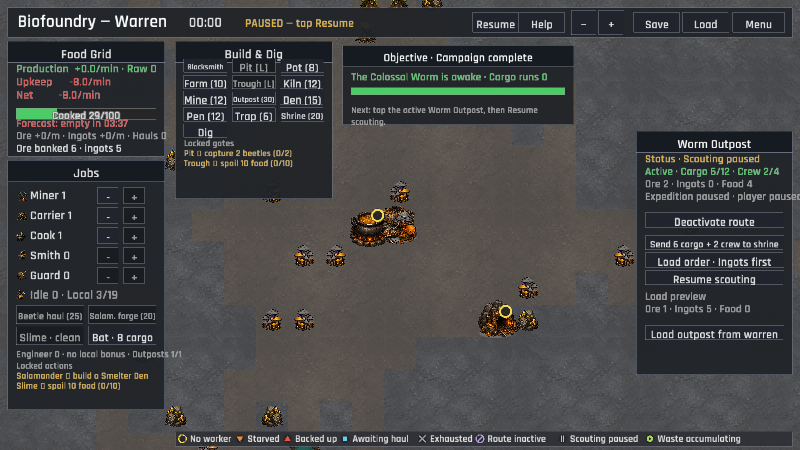
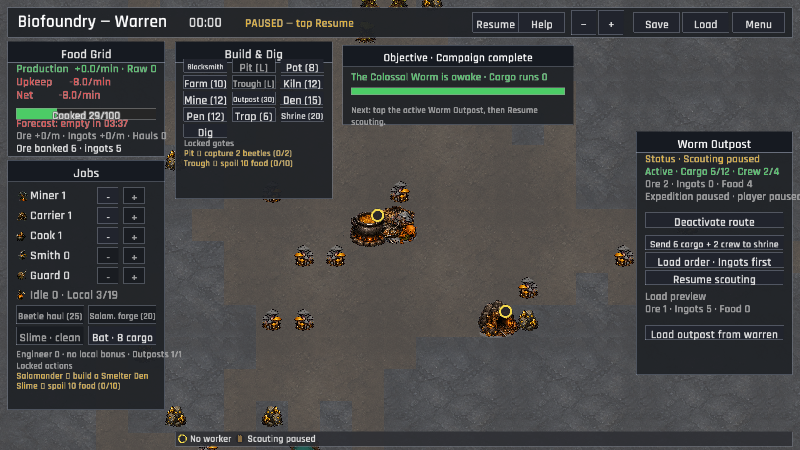
The warren reads every outpost warning sign (Outpost blocker legibility, post-campaign)
Staffed awakened Outposts now surface scout-food and remote-hold blockers on the map, inspection card, and compact status legend. Keep the recovery copy readable when no payload is ready, and refresh the focused Endless captures and UI coverage.

Changed region(s): [[0.3125, 0.9644, 0.9375, 0.9956]]

diff --git a/src/ui/legibility.rs b/src/ui/legibility.rs
@@ -52,6 +52,10 @@ pub enum BuildingStatus {
     RouteInactive,
     /// An awakened remote route whose scouting has been paused by the player.
     ExpeditionPaused,
+    /// A staffed remote route that needs more cooked food before scouting.
+    ExpeditionNeedsFood,
+    /// A remote cargo hold that needs a return trip before scouting can continue.
+    ExpeditionHoldFull,
     /// Spoiled stores are accumulating faster than they are cleaned.
     WasteOverflow,
 }
@@ -73,6 +77,8 @@ impl BuildingStatus {
             BuildingStatus::AwaitingHaul => "Awaiting haul",
             BuildingStatus::RouteInactive => "Route inactive",
             BuildingStatus::ExpeditionPaused => "Scouting paused",
+            BuildingStatus::ExpeditionNeedsFood => "Scout food low",
+            BuildingStatus::ExpeditionHoldFull => "Outpost full",
             BuildingStatus::WasteOverflow => "Waste accumulating",
         }
     }
@@ -177,14 +183,25 @@ pub fn building_status(
         {
             Some(BuildingStatus::RouteInactive)
         }
-        "outpost"
-            if session
-                .outposts
-                .iter()
-                .find(|o| o.pos == pos)
-                .is_some_and(|o| o.active && o.expedition_paused) =>
-        {
-            Some(BuildingStatus::ExpeditionPaused)
+        "outpost" => {
+            let outpost = session.outposts.iter().find(|o| o.pos == pos)?;
+            if !session.worm_awake {
+                return None;
+            }
+            match crate::simulation::outposts::expedition_state(outpost, data) {
+                crate::simulation::outposts::ExpeditionState::Paused => {
+                    Some(BuildingStatus::ExpeditionPaused)
+                }
+                crate::simulation::outposts::ExpeditionState::NeedsFood { .. } => {
+                    Some(BuildingStatus::ExpeditionNeedsFood)
+                }
+                crate::simulation::outposts::ExpeditionState::HoldFull => {
+                    Some(BuildingStatus::ExpeditionHoldFull)
+                }
+                crate::simulation::outposts::ExpeditionState::Inactive
+                | crate::simulation::outposts::ExpeditionState::NoCrew
+                | crate::simulation::outposts::ExpeditionState::Scouting { .. } => None,
+            }
         }
         _ => None,
     }

diff --git a/src/ui/legibility/tests.rs b/src/ui/legibility/tests.rs
@@ -215,6 +215,7 @@ fn loaded_inactive_outpost_keeps_a_route_status_on_the_map() {
 #[test]
 fn paused_outpost_keeps_a_distinct_map_status() {
     let (data, mut session) = boot();
+    session.worm_awake = true;
     let pos = session
         .world
         .tiles
@@ -225,6 +226,7 @@ fn paused_outpost_keeps_a_distinct_map_status() {
     session.buildings.push(Building::new("outpost", pos));
     session.ensure_outpost(pos);
     session.outposts[0].active = true;
+    session.outposts[0].crew.push(session.creatures[0].id);
     session.outposts[0].expedition_paused = true;
 
     assert_eq!(
@@ -232,6 +234,39 @@ fn paused_outpost_keeps_a_distinct_map_status() {
         Some(BuildingStatus::ExpeditionPaused)
     );
     assert_eq!(BuildingStatus::ExpeditionPaused.label(), "Scouting paused");
+}
+
+#[test]
+fn staffed_outpost_exposes_food_and_hold_blockers_on_the_map() {
+    let (data, mut session) = boot();
+    session.worm_awake = true;
+    let pos = session
+        .world
+        .tiles
+        .iter_with_pos()
+        .find(|(p, t)| t.walkable() && session.can_place_building(*p))
+        .map(|(p, _)| p)
+        .unwrap();
+    session.buildings.push(Building::new("outpost", pos));
+    session.ensure_outpost(pos);
+    session.outposts[0].active = true;
+    let crew_id = session.creatures[0].id;
+    session.outposts[0].crew.push(crew_id);
+
+    assert_eq!(
+        building_status(&session, &data, session.building_at(pos).unwrap()),
+        Some(BuildingStatus::ExpeditionNeedsFood)
+    );
+
+    session.outposts[0].cargo.insert(Good::CookedFood, 1);
+    session.outposts[0].cargo.insert(
+        Good::Ore,
+        data.balance.outpost_storage_cap.saturating_sub(1),
+    );
+    assert_eq!(
+        building_status(&session, &data, session.building_at(pos).unwrap()),
+        Some(BuildingStatus::ExpeditionHoldFull)
+    );
 }
 
 #[test]

diff --git a/src/ui/hud/inspect/tests.rs b/src/ui/hud/inspect/tests.rs
@@ -292,11 +292,45 @@ fn paused_outpost_reports_its_manual_scouting_state() {
     session.ensure_outpost(pos);
     session.worm_awake = true;
     session.outposts[0].active = true;
+    session.outposts[0].crew.push(session.creatures[0].id);
     session.outposts[0].expedition_paused = true;
 
     assert_eq!(
         inspect_status(&session, &data, session.building_at(pos).unwrap()),
         ("Scouting paused", dark::WARNING)
+    );
+}
+
+#[test]
+fn staffed_outpost_reports_food_and_hold_blockers() {
+    let data = GameData::load().expect("embedded game data");
+    let mut session = GameSession::new(&data, 18);
+    let pos = session
+        .world
+        .tiles
+        .iter_with_pos()
+        .find(|(pos, _)| session.can_place_building(*pos))
+        .map(|(pos, _)| pos)
+        .expect("a walkable outpost location");
+    session.buildings.push(Building::new("outpost", pos));
+    session.ensure_outpost(pos);
+    session.worm_awake = true;
+    session.outposts[0].active = true;
+    session.outposts[0].crew.push(session.creatures[0].id);
+
+    assert_eq!(
+        inspect_status(&session, &data, session.building_at(pos).unwrap()),
+        ("Needs scout food", dark::WARNING)
+    );
+
+    session.outposts[0].cargo.insert(Good::CookedFood, 1);
+    session.outposts[0].cargo.insert(
+        Good::Ore,
+        data.balance.outpost_storage_cap.saturating_sub(1),
+    );
+    assert_eq!(
+        inspect_status(&session, &data, session.building_at(pos).unwrap()),
+        ("Outpost hold full", dark::NEGATIVE)
     );
 }
 

diff --git a/src/ui/warren.rs b/src/ui/warren.rs
@@ -138,6 +138,8 @@ fn draw_status_badge(pos: TilePos, ts: f32, status: crate::ui::legibility::Build
         St::AwaitingHaul => Color::new(0.40, 0.80, 0.92, 1.0),
         St::RouteInactive => Color::new(0.70, 0.62, 0.85, 1.0),
         St::ExpeditionPaused => Color::new(0.95, 0.72, 0.35, 1.0),
+        St::ExpeditionNeedsFood => Color::new(0.95, 0.55, 0.20, 1.0),
+        St::ExpeditionHoldFull => Color::new(0.92, 0.32, 0.26, 1.0),
         St::WasteOverflow => Color::new(0.65, 0.85, 0.35, 1.0),
     };
     draw_status_glyph(vec2(bx, by), r, status, color);
@@ -199,6 +201,20 @@ pub(super) fn draw_status_glyph(
             draw_line(bx - s * 0.35, by - s, bx - s * 0.35, by + s, 2.0, color);
             draw_line(bx + s * 0.35, by - s, bx + s * 0.35, by + s, 2.0, color);
         }
+        // Scout food low: an empty down-triangle, matching starvation.
+        St::ExpeditionNeedsFood => draw_triangle(
+            vec2(bx, by + s),
+            vec2(bx - s, by - s * 0.7),
+            vec2(bx + s, by - s * 0.7),
+            color,
+        ),
+        // Outpost full: a full up-triangle, matching a backed-up output.
+        St::ExpeditionHoldFull => draw_triangle(
+            vec2(bx, by - s),
+            vec2(bx - s, by + s * 0.7),
+            vec2(bx + s, by + s * 0.7),
+            color,
+        ),
         St::WasteOverflow => {
             draw_circle(bx, by, s, color);
             draw_circle(bx, by, s * 0.35, Color::new(0.12, 0.18, 0.08, 1.0));

diff --git a/src/ui/hud/overlays.rs b/src/ui/hud/overlays.rs
@@ -266,7 +266,7 @@ fn recovery_guide_body(session: &GameSession, data: &GameData) -> String {
 
 /// A one-line legend for the in-world status badges, in a thin strip along
 /// the bottom of the world view (shown only while a node is stalled).
-pub(super) fn draw_status_legend() {
+pub(super) fn draw_status_legend(session: &GameSession, data: &GameData) {
     use crate::ui::legibility::BuildingStatus as St;
     let strip = Rect::new(280.0, LOGICAL_HEIGHT - 30.0, LOGICAL_WIDTH - 292.0, 24.0);
     draw_surface(
@@ -282,11 +282,18 @@ pub(super) fn draw_status_legend() {
         (St::Exhausted, Color::new(0.60, 0.60, 0.66, 1.0)),
         (St::RouteInactive, Color::new(0.70, 0.62, 0.85, 1.0)),
         (St::ExpeditionPaused, Color::new(0.95, 0.72, 0.35, 1.0)),
+        (St::ExpeditionNeedsFood, Color::new(0.95, 0.55, 0.20, 1.0)),
+        (St::ExpeditionHoldFull, Color::new(0.92, 0.32, 0.26, 1.0)),
         (St::WasteOverflow, Color::new(0.65, 0.85, 0.35, 1.0)),
     ];
     let mut lx = strip.x + 12.0;
     let cy = strip.y + strip.h * 0.5;
     for (status, color) in items {
+        if !session.buildings.iter().any(|building| {
+            crate::ui::legibility::building_status(session, data, building) == Some(status)
+        }) {
+            continue;
+        }
         draw_circle(lx, cy, 7.5, Color::new(0.08, 0.08, 0.10, 0.92));
         crate::ui::warren::draw_status_glyph(vec2(lx, cy), 6.0, status, color);
         let label = status.label();

diff --git a/src/ui/hud/inspect/status.rs b/src/ui/hud/inspect/status.rs
@@ -151,8 +151,21 @@ pub(super) fn inspect_status(
                 }
                 return ("Route inactive", dark::WARNING);
             }
-            if outpost.expedition_paused {
-                return ("Scouting paused", dark::WARNING);
+            if session.worm_awake {
+                match crate::simulation::outposts::expedition_state(outpost, data) {
+                    crate::simulation::outposts::ExpeditionState::Paused => {
+                        return ("Scouting paused", dark::WARNING);
+                    }
+                    crate::simulation::outposts::ExpeditionState::NeedsFood { .. } => {
+                        return ("Needs scout food", dark::WARNING);
+                    }
+                    crate::simulation::outposts::ExpeditionState::HoldFull => {
+                        return ("Outpost hold full", dark::NEGATIVE);
+                    }
+                    crate::simulation::outposts::ExpeditionState::Inactive
+                    | crate::simulation::outposts::ExpeditionState::NoCrew
+                    | crate::simulation::outposts::ExpeditionState::Scouting { .. } => {}
+                }
             }
             if !session.worm_awake {
                 return ("Route active", dark::POSITIVE);

diff --git a/src/ui/hud/inspect.rs b/src/ui/hud/inspect.rs
@@ -582,11 +582,7 @@ pub(super) fn draw_inspect_panel(
                     }
                     y += 36.0;
                     if cargo == 0 && crew == 0 && !loadable_payload {
-                        line(
-                            "No cargo or crew ready at the warren",
-                            dark::WARNING,
-                            &mut y,
-                        );
+                        line("No payload ready at warren", dark::WARNING, &mut y);
                     }
                 } else if active {
                     line("Awaiting the worm's awakening", dark::TEXT_DIM, &mut y);

diff --git a/src/ui/hud.rs b/src/ui/hud.rs
@@ -127,7 +127,7 @@ pub fn draw(
         .iter()
         .any(|b| crate::ui::legibility::building_status(session, data, b).is_some())
     {
-        overlays::draw_status_legend();
+        overlays::draw_status_legend(session, data);
     }
 
     let victory_up = session.won && !session.victory_shown;
